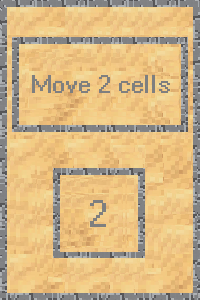
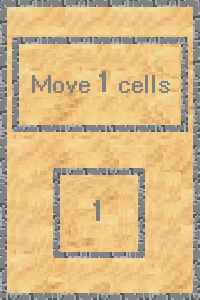
adding script file to generate cards

diff --git a/templates/castlemaze/home.html b/templates/castlemaze/home.html
@@ -2,18 +2,14 @@
 
 {% block  content%}
     <div class="row">
-        <div class="card col-md-6" style="padding:10px;">
+        <div class="card col-md-6">
             <div class="card-header">
                 Games not started
             </div>
             <div class="card-body"  style="overflow: auto; max-height:300px;">
                  {% for game in games_open %}
                     <a class="list-group-item list-group-item-action  d-flex justify-content-between align-items-center" href="{{ game.get_absolute_url }}">
-                        {{game.pk}} Number of players{{game.get_number_of_players}}
-                        {% if game.status == 'P' %} Join
-                        {% else %}
-                            See the game
-                        {% endif %}
+                        Game id : {{game.pk}}      ---       Number of players {{game.get_number_of_players}}     ---     Click to join the game
                     </a>
                 {% endfor %}
             </div>
@@ -21,26 +17,21 @@
         <div class="col-md-6">
             <div class="card">
                 <div class="card-header">
-                    {{user.username}}
+                    Hello {{user.username}} !
                 </div>
                 <div class="card-body">
-                Number of game played
                 <a class="btn btn-primary" href="{% url 'castlemaze_game' id=0 %}">Create New Game</a>
                 </div>
             </div>
         </div>
-         <div class="card col-md-6" style="padding:10px;">
+         <div class="card col-md-6">
             <div class="card-header">
                 Games in progress
             </div>
             <div class="card-body"  style="overflow: auto; max-height:300px;">
                  {% for game in games_started %}
                     <a class="list-group-item list-group-item-action  d-flex justify-content-between align-items-center" href="{{ game.get_absolute_url }}">
-                        {{game.pk}} Number of players{{game.get_number_of_players}}
-                        {% if game.status == 'P' %} Join
-                        {% else %}
-                            See the game
-                        {% endif %}
+                           Game id : {{game.pk}}      ---       Number of players {{game.get_number_of_players}}     ---     Click to spectate the game
                     </a>
                 {% endfor %}
             </div>

diff --git a/castlemaze/scripts/make_cards.py b/castlemaze/scripts/make_cards.py
@@ -1,0 +1,197 @@
+from castlemaze.models import Card
+
+# Delete existing cards
+
+Card.objects.all().delete()
+
+# Tile cards
+
+for _ in range(25):
+    card = Card()
+    card.img = 'shape_1'
+    card.card_type = 'tile'
+    card.open_top = True
+    card.open_left = False
+    card.open_bottom = True
+    card.open_right = False
+    card.number_of_moves = 0
+    card.save()
+
+for _ in range(25):
+    card = Card()
+    card.img = 'shape_1_2'
+    card.card_type = 'tile'
+    card.open_top = False
+    card.open_left = True
+    card.open_bottom = False
+    card.open_right = True
+    card.number_of_moves = 0
+    card.save()
+
+
+for _ in range(12):
+    card = Card()
+    card.img = 'shape_2'
+    card.card_type = 'tile'
+    card.open_top = True
+    card.open_left = False
+    card.open_bottom = True
+    card.open_right = True
+    card.number_of_moves = 0
+    card.save()
+
+
+for _ in range(12):
+    card = Card()
+    card.img = 'shape_2_2'
+    card.card_type = 'tile'
+    card.open_top = False
+    card.open_left = True
+    card.open_bottom = True
+    card.open_right = True
+    card.number_of_moves = 0
+    card.save()
+
+
+for _ in range(12):
+    card = Card()
+    card.img = 'shape_2_3'
+    card.card_type = 'tile'
+    card.open_top = True
+    card.open_left = True
+    card.open_bottom = True
+    card.open_right = False
+    card.number_of_moves = 0
+    card.save()
+
+
+for _ in range(12):
+    card = Card()
+    card.img = 'shape_2_4'
+    card.card_type = 'tile'
+    card.open_top = True
+    card.open_left = True
+    card.open_bottom = False
+    card.open_right = True
+    card.number_of_moves = 0
+    card.save()
+
+
+for _ in range(50):
+    card = Card()
+    card.img = 'shape_3'
+    card.card_type = 'tile'
+    card.open_top = True
+    card.open_left = True
+    card.open_bottom = True
+    card.open_right = True
+    card.number_of_moves = 0
+    card.save()
+
+
+for _ in range(10):
+    card = Card()
+    card.img = 'shape_4'
+    card.card_type = 'tile'
+    card.open_top = True
+    card.open_left = False
+    card.open_bottom = False
+    card.open_right = True
+    card.number_of_moves = 0
+    card.save()
+
+
+for _ in range(10):
+    card = Card()
+    card.img = 'shape_4_2'
+    card.card_type = 'tile'
+    card.open_top = False
+    card.open_left = False
+    card.open_bottom = True
+    card.open_right = True
+    card.number_of_moves = 0
+    card.save()
+
+
+for _ in range(10):
+    card = Card()
+    card.img = 'shape_4_3'
+    card.card_type = 'tile'
+    card.open_top = False
+    card.open_left = True
+    card.open_bottom = True
+    card.open_right = False
+    card.number_of_moves = 0
+    card.save()
+
+
+for _ in range(10):
+    card = Card()
+    card.img = 'shape_4_4'
+    card.card_type = 'tile'
+    card.open_top = True
+    card.open_left = True
+    card.open_bottom = False
+    card.open_right = False
+    card.number_of_moves = 0
+    card.save()
+
+# Action cards
+
+for _ in range(30):
+    card = Card()
+    card.img = 'action_1'
+    card.card_type = 'action'
+    card.open_top = False
+    card.open_left = False
+    card.open_bottom = False
+    card.open_right = False
+    card.number_of_moves = 1
+    card.save()
+
+
+for _ in range(30):
+    card = Card()
+    card.img = 'action_2'
+    card.card_type = 'action'
+    card.open_top = False
+    card.open_left = False
+    card.open_bottom = False
+    card.open_right = False
+    card.number_of_moves = 2
+    card.save()
+
+
+for _ in range(30):
+    card = Card()
+    card.img = 'action_3'
+    card.card_type = 'action'
+    card.open_top = False
+    card.open_left = False
+    card.open_bottom = False
+    card.open_right = False
+    card.number_of_moves = 3
+    card.save()
+
+# Castle card
+
+card = Card()
+card.img = 'castle_left'
+card.card_type = 'castle'
+card.open_top = False
+card.open_left = False
+card.open_bottom = False
+card.open_right = False
+card.number_of_moves = 0
+card.save()
+
+
+card = Card()
+card.img = 'castle_right'
+card.card_type = 'castle'
+card.open_top = False
+card.open_left = False
+card.open_bottom = False
+card.open_right = False
+card.number_of_moves = 0
+card.save()
